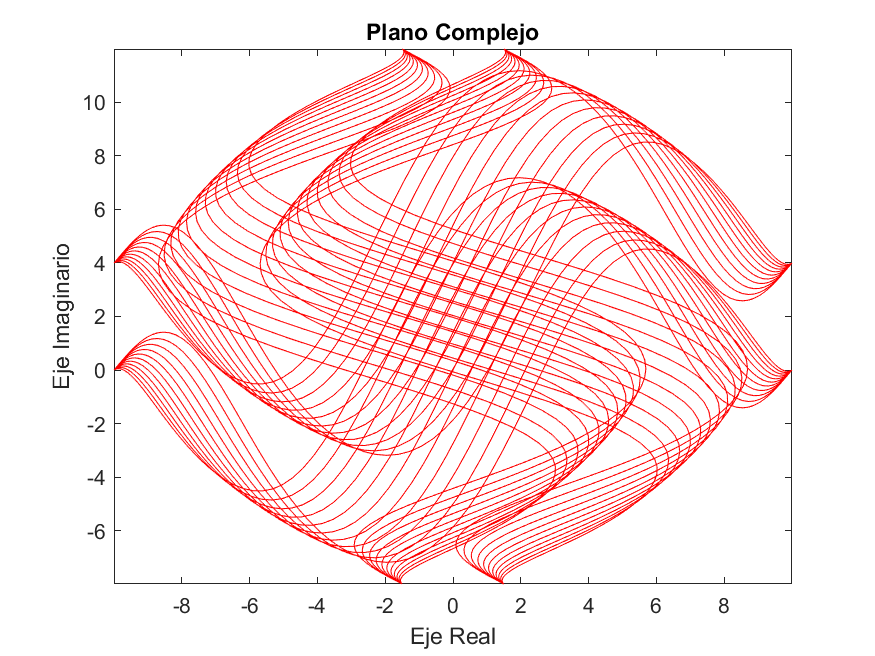
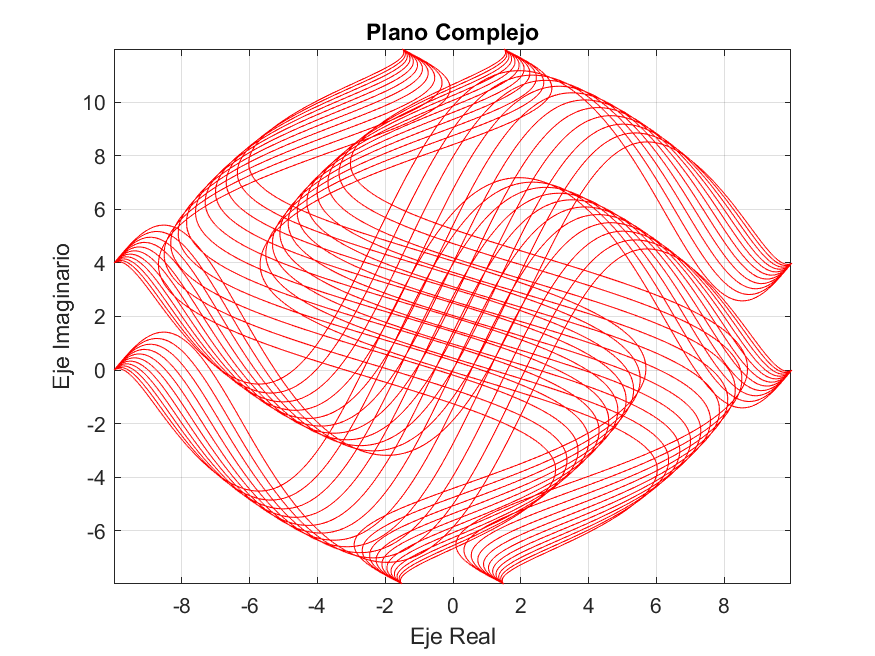
GUIDE corregido, falta README e INFORME

diff --git a/Taller Proyeccion Estereografica/proyEstGuide.m b/Taller Proyeccion Estereografica/proyEstGuide.m
@@ -61,11 +61,13 @@ handles.output = hObject;
 % Update handles structure
 guidata(hObject, handles);
 axes(handles.axes1)
+grid on
 xlabel('Eje Real')
 ylabel('Eje Imaginario')
 xlim([-10, 10])
 ylim([-10, 10])
 axes(handles.axes2)
+grid on
 xlabel('Coordenada X1')
 ylabel('Coordenada X2')
 zlabel('Coordenada X3')
@@ -119,10 +121,11 @@ function GraficarPuntosProy_Callback(hObject, eventdata, handles)
 % hObject    handle to GraficarPuntosProy (see GCBO)
 % eventdata  reserved - to be defined in a future version of MATLAB
 % handles    structure with handles and user data (see GUIDATA)
-[a,b,c] = sphere(50);
+[a,b,c] = sphere(20);
 axes(handles.axes1)
 cla
 plot(NaN,NaN)
+grid on
 xlabel('Eje Real')
 ylabel('Eje Imaginario')
 xlim([-10, 10])
@@ -132,7 +135,8 @@ cla
 xlabel('Coordenada X1')
 ylabel('Coordenada X2')
 zlabel('Coordenada X3')
-plot3(a, b, c, 'c')
+plot3(a, b, c,'LineStyle','--','color',[0.8,0.8,0.8]);
+grid on
 clc
 n = str2num(get(handles.num_puntos, "String"));
 [x, y] = ginput(n);
@@ -151,6 +155,7 @@ end
 axes(handles.axes1)
 cla
 plot(U, V, 'r')
+grid on
 xlabel('Eje Real')
 ylabel('Eje Imaginario')
 xlim([-10, 10])
@@ -168,9 +173,12 @@ axes(handles.axes2)
 
 hold on
 plot3(X1, X2, X3, 'r')
+grid on
 xlim([-1 1])
 ylim([-1 1])
 zlim([-1 1])
+enableDefaultInteractivity(handles.axes1)
+enableDefaultInteractivity(handles.axes2)
 
 
 
@@ -209,8 +217,10 @@ axes(handles.axes1)
 cla
 xlabel('Eje Real')
 ylabel('Eje Imaginario')
+grid on
 axes(handles.axes2)
 cla
+grid on
 xlabel('Coordenada X1')
 ylabel('Coordenada X2')
 zlabel('Coordenada X3')
@@ -226,6 +236,8 @@ elseif(f == 3)
 elseif(f == 4)
     figure4(handles);
 end
+enableDefaultInteractivity(handles.axes1)
+enableDefaultInteractivity(handles.axes2)
 
 
 % --- Executes on button press in Empezar.
@@ -246,53 +258,67 @@ function Empezar_Callback(hObject, eventdata, handles)
 axes(handles.axes1)
 cla
 plot(NaN, NaN)
+grid on
 xlabel('Eje Real')
 ylabel('Eje Imaginario')
 xlim([-10, 10])
 ylim([-10, 10])
 axes(handles.axes2)
 cla
-plot3(a, b, c, 'c')
+plot3(a, b, c,'LineStyle','--','color',[0.8,0.8,0.8]);
+grid on
 hold on
 xlabel('Coordenada X1')
 ylabel('Coordenada X2')
 zlabel('Coordenada X3')
-X = [];
-Y = [];
+a = [];
+b = [];
+U = [];
+V = [];
 i = 1;
 while(true)
     [x, y, button] = ginput(1);
     if(button == 3)
-        X(i) = NaN;
-        Y(i) = NaN;
+        a(i) = NaN;
+        b(i) = NaN;
     else
         if(-10<x && x<10 && -10<y && y<10)
-        X(i) = x;
-        Y(i) = y;
+            a(i) = x;
+            b(i) = y;
         else
-            Z = complex(X, Y);
-            X1 = 2.*real(Z)./((abs(Z).^2)+1);
-            X2 = 2.*imag(Z)./((abs(Z).^2)+1);
-            X3 = ((abs(Z).^2)-1)./((abs(Z).^2)+1);
-            axes(handles.axes2)
-            plot3(X1, X2, X3, 'r')
+            grid on
             xlim([-1 1])
             ylim([-1 1])
             zlim([-1 1])
             break;
         end
         if(i ~= 1)
-            p1 = [X(i-1), Y(i-1)];
-            p2 = [X(i), Y(i)];
+            p1 = [a(i-1), b(i-1)];
+            p2 = [a(i), b(i)];
             [U, V] = line2points(p1,p2);
             axes(handles.axes1)
             hold on
             plot(U, V, 'r');
+            grid on
             xlabel('Eje Real')
             ylabel('Eje Imaginario')
             xlim([-10, 10])
             ylim([-10, 10])
+%             X = horzcat(X, U);
+%             Y = horzcat(Y, V);
+%             X = [X, NaN, U];
+%             Y = [Y, NaN, V];
+            Z = complex(U, V);
+            X1 = 2.*real(Z)./((abs(Z).^2)+1);
+            X2 = 2.*imag(Z)./((abs(Z).^2)+1);
+            X3 = ((abs(Z).^2)-1)./((abs(Z).^2)+1);
+            axes(handles.axes2)
+            hold on
+            plot3(X1, X2, X3, 'r')
         end
     end
     i = i+1;
+    
 end
+enableDefaultInteractivity(handles.axes1)
+enableDefaultInteractivity(handles.axes2)

diff --git a/Taller Proyeccion Estereografica/f4.m b/Taller Proyeccion Estereografica/f4.m
@@ -1,12 +1,18 @@
 % Superficie Parametrica 2
 clc
-theta = linspace(-6.2,6.2, 1000);
+theta = linspace(-6.2,6.2, 10000);
 
 X = [];
 Y = [];
 
 x = 10.*sin(2.78.*theta).*round(sqrt(cos(cos(8.2.*theta))));
 y = 9.*(cos(2.78.*theta).^2).*sin(sin(8.2.*theta));
+
+% Z = complex(x, y);
+% 
+% X1 = 2.*real(Z)./((abs(Z).^2)+1);
+% X2 = 2.*imag(Z)./((abs(Z).^2)+1);
+% X3 = ((abs(Z).^2)-1)./((abs(Z).^2)+1);
 
 X = horzcat(X, x);
 Y = horzcat(Y, y);
@@ -39,6 +45,7 @@ X3 = ((abs(Z).^2)-1)./((abs(Z).^2)+1);
 
 figure
 plot(X, Y, 'r')
+grid on
 xlim([min(X) max(X)])
 ylim([min(Y) max(Y)])
 xlabel('Eje Real')
@@ -47,9 +54,10 @@ title('Plano Complejo')
 saveas(gcf, 'figure4PC.png');
 
 figure
-[a,b,c] = sphere(50);
+[a,b,c] = sphere(20);
 colormap winter
-plot3(a, b, c, 'c')
+plot3(a, b, c,'LineStyle','--','color',[0.8,0.8,0.8]);
+grid on
 hold on
 plot3(X1, X2, X3, 'r')
 xlim([-1 1])

diff --git a/Taller Proyeccion Estereografica/figure4.m b/Taller Proyeccion Estereografica/figure4.m
@@ -2,7 +2,7 @@
 function figure4(handles)
     %%% Grafico y proyecto figure4PC.png
 
-    theta = linspace(-6.2,6.2, 1000);
+    theta = linspace(-6.2,6.2, 10000);
 
     X = [];
     Y = [];
@@ -42,20 +42,22 @@ function figure4(handles)
     axes(handles.axes1)
     
     plot(X, Y, 'r')
+    grid on
     xlabel('Eje Real')
     ylabel('Eje Imaginario')
     xlim([min(X), max(X)])
     ylim([min(Y), max(Y)])
     axes(handles.axes2)
     
-    [a,b,c] = sphere(50);
+    [a,b,c] = sphere(20);
     colormap winter
-    plot3(a, b, c,'c')
+    plot3(a, b, c,'LineStyle','--','color',[0.8,0.8,0.8]);
     xlabel('Coordenada X1')
     ylabel('Coordenada X2')
     zlabel('Coordenada X3')
     hold on
     plot3(X1, X2, X3, 'r')
+    grid on
     xlim([-1 1])
     ylim([-1 1])
     zlim([-1 1])

diff --git a/Taller Proyeccion Estereografica/figure3.m b/Taller Proyeccion Estereografica/figure3.m
@@ -182,20 +182,22 @@ function figure3(handles)
     axes(handles.axes1)
     
     plot(X, Y, 'r')
+    grid on
     xlabel('Eje Real')
     ylabel('Eje Imaginario')
     xlim([min(X), max(X)])
     ylim([min(Y), max(Y)])
     axes(handles.axes2)
     
-    [a,b,c] = sphere(50);
+    [a,b,c] = sphere(20);
     colormap winter
-    plot3(a, b, c,'c')
+    plot3(a, b, c,'LineStyle','--','color',[0.8,0.8,0.8]);
     xlabel('Coordenada X1')
     ylabel('Coordenada X2')
     zlabel('Coordenada X3')
     hold on
     plot3(X1, X2, X3, 'r')
+    grid on
     xlim([-1 1])
     ylim([-1 1])
     zlim([-1 1])

diff --git a/Taller Proyeccion Estereografica/figure2.m b/Taller Proyeccion Estereografica/figure2.m
@@ -44,20 +44,22 @@ function figure2(handles)
     axes(handles.axes1)
     
     plot(X, Y, 'r')
+    grid on
     xlabel('Eje Real')
     ylabel('Eje Imaginario')
     xlim([min(X), max(X)])
     ylim([min(Y), max(Y)])
     axes(handles.axes2)
     
-    [a,b,c] = sphere(50);
+    [a,b,c] = sphere(20);
     colormap winter
-    plot3(a, b, c,'c')
+    plot3(a, b, c,'LineStyle','--','color',[0.8,0.8,0.8]);
     xlabel('Coordenada X1')
     ylabel('Coordenada X2')
     zlabel('Coordenada X3')
     hold on
     plot3(X1, X2, X3, 'r')
+    grid on
     xlim([-1 1])
     ylim([-1 1])
     zlim([-1 1])

diff --git a/Taller Proyeccion Estereografica/figure1.m b/Taller Proyeccion Estereografica/figure1.m
@@ -54,14 +54,16 @@ function figure1(handles)
 
     axes(handles.axes1)
     plot(X, Y, 'r')
+    grid on
     xlabel('Eje Real')
     ylabel('Eje Imaginario')
     xlim([min(X), max(X)])
     ylim([min(Y), max(Y)])
     axes(handles.axes2)
-    [a,b,c] = sphere(50);
+    [a,b,c] = sphere(20);
     colormap winter
-    mesh(a, b, c)
+    plot3(a, b, c,'LineStyle','--','color',[0.8,0.8,0.8]);
+    grid on
     xlabel('Coordenada X1')
     ylabel('Coordenada X2')
     zlabel('Coordenada X3')

diff --git a/Taller Proyeccion Estereografica/f2.m b/Taller Proyeccion Estereografica/f2.m
@@ -41,6 +41,7 @@ X3 = ((abs(Z).^2)-1)./((abs(Z).^2)+1);
 
 figure
 plot(X, Y, 'r')
+grid on
 xlim([min(X) max(X)])
 ylim([min(Y) max(Y)])
 xlabel('Eje Real')
@@ -48,10 +49,11 @@ ylabel('Eje Imaginario')
 title('Plano Complejo')
 saveas(gcf, 'figure2PC.png');
 figure
-[a,b,c] = sphere(50);
+[a,b,c] = sphere(20);
 colormap winter
-plot3(a, b, c,'c')
+plot3(a, b, c,'LineStyle','--','color',[0.8,0.8,0.8]);
 hold on
+grid on
 plot3(X1, X2, X3, 'r')
 xlim([-1 1])
 ylim([-1 1])

diff --git a/Taller Proyeccion Estereografica/f1.m b/Taller Proyeccion Estereografica/f1.m
@@ -53,6 +53,7 @@ X3 = ((abs(Z).^2)-1)./((abs(Z).^2)+1);
 
 figure
 plot(X, Y, 'r')
+grid on
 xlim([min(X) max(X)])
 ylim([min(Y) max(Y)])
 xlabel('Eje Real')
@@ -61,10 +62,11 @@ title('Plano Complejo')
 saveas(gcf, 'figure1PC.png');
 
 figure
-[a,b,c] = sphere(50);
+[a,b,c] = sphere(20);
 colormap winter
-mesh(a, b, c)
+plot3(a, b, c,'LineStyle','--','color',[0.8,0.8,0.8]);
 hold on
+grid on
 plot3(X1, X2, X3, 'r')
 xlim([-1 1])
 ylim([-1 1])

diff --git a/Taller Proyeccion Estereografica/f3.m b/Taller Proyeccion Estereografica/f3.m
@@ -179,6 +179,7 @@ X3 = ((abs(Z).^2)-1)./((abs(Z).^2)+1);
 
 figure
 plot(X, Y, 'r')
+grid on
 xlim([min(X) max(X)])
 ylim([min(Y) max(Y)])
 xlabel('Eje Real')
@@ -187,9 +188,10 @@ title('Plano Complejo')
 saveas(gcf, 'figure3PC.png');
 
 figure
-[a,b,c] = sphere(50);
+[a,b,c] = sphere(20);
 colormap winter
-plot3(a, b, c, 'c')
+plot3(a, b, c,'LineStyle','--','color',[0.8,0.8,0.8]);
+grid on
 hold on
 plot3(X1, X2, X3, 'r')
 xlim([-1 1])

diff --git a/Taller Proyeccion Estereografica/line2points.m b/Taller Proyeccion Estereografica/line2points.m
@@ -1,3 +1,4 @@
+%%% Funcion sugerida por Santiago Lopez
 function [X, Y] = line2points(p1, p2)
     %%% Funcion para unir 2 puntos mediante una recta
 
